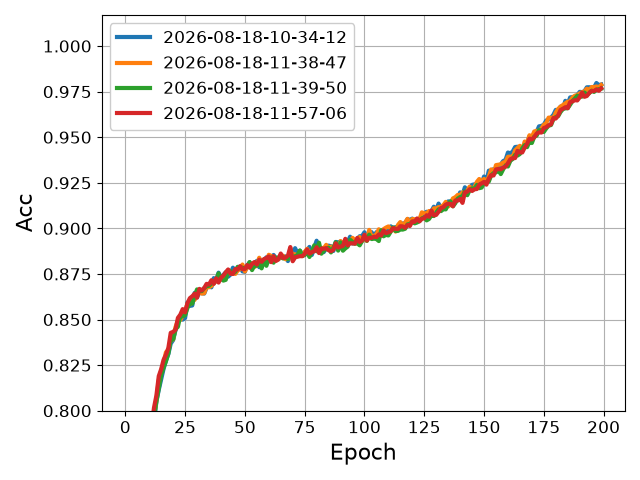
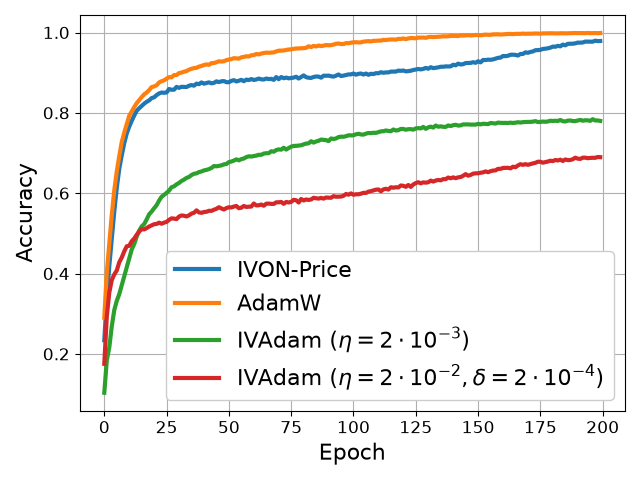
added ivadam plots

diff --git a/plot.py b/plot.py
@@ -7,15 +7,23 @@ import matplotlib.pyplot as plt
 
 dirs = [
     # Algo 1 in https://arxiv.org/pdf/2402.17641
-    ("results/cifar10/resnet20/ivon-price/seed=0/2026-08-18-10-34-12", None),
-    # Removed Riemannian GD term (line 5, in red)   
-    ("results/cifar10/resnet20/ivon-price/seed=0/2026-08-18-11-38-47", None),
-    # Removed second term in line 5, based on the assumption that ~1 β2 => update is h <- β2 h
-    ("results/cifar10/resnet20/ivon-price/seed=0/2026-08-18-11-39-50", None),
-    # Removed δ from sampling stdev, step-size rescaling, and denom in lines in 7 and 8 -- idea being it is << h
-    ("results/cifar10/resnet20/ivon-price/seed=0/2026-08-18-11-57-06", None),
+    ("results/cifar10/resnet20/ivon-price/seed=0/2026-08-18-10-34-12", "IVON-Price"),
+    # # Removed Riemannian GD term (line 5, in red)
+    # ("results/cifar10/resnet20/ivon-price/seed=0/2026-08-18-11-38-47", None),
+    # # Removed second term in line 5, based on the assumption that ~1 β2 => update is h <- β2 h
+    # ("results/cifar10/resnet20/ivon-price/seed=0/2026-08-18-11-39-50", None),
+    # # Removed δ from sampling stdev, step-size rescaling, and denom in lines in 7 and 8 -- idea being it is << h
+    # ("results/cifar10/resnet20/ivon-price/seed=0/2026-08-18-11-57-06", None),
+    # AdamW with IVON-paper settings
+    ("results/cifar10/resnet20/adamw/seed=0/2026-08-27-21-41-19", "AdamW"),
+    # IV Adam with step-size 2e-3
+    ("results/cifar10/resnet20/ivadam-decoupled/seed=0/2026-08-27-21-41-17", r"IVAdam ($\eta=2\cdot 10^{-3}$)"),
+    # IV Adam with step-size 2e-2
+    ("results/cifar10/resnet20/ivadam-decoupled/seed=0/2026-08-27-23-29-39", r"IVAdam ($\eta=2\cdot 10^{-2}, \delta=2\cdot 10^{-4}$)"),
+    # # IV Adam with step-size 2e-1
+    # ("results/cifar10/resnet20/ivadam-decoupled/seed=0/2026-08-27-23-30-31", r"IV Adam with $\eta=0.2$"),
 ]
-split = "train"
+split = "test"
 col = "acc"
 
 
@@ -28,11 +36,11 @@ for d, name in dirs:
     axs.plot(df.loc[:, "epoch"], df.loc[:, col], linewidth=3, label=label)
 
 axs.tick_params(axis="both", which="major", labelsize=12)
-axs.set_ylim(0.8, None)
+# axs.set_ylim(0.8, None)
 axs.set_xlabel("Epoch", fontsize=16)
-axs.set_ylabel(col.capitalize(), fontsize=16)
+axs.set_ylabel("Accuracy", fontsize=16)
 axs.grid()
-axs.legend(fontsize=12, framealpha=1.0)
+axs.legend(fontsize=16, framealpha=1.0)
 
 fig.tight_layout()
 plt.savefig(f"{splitext(basename(inspect.stack()[0][1]))[0]}_{split}_{col}.png")
